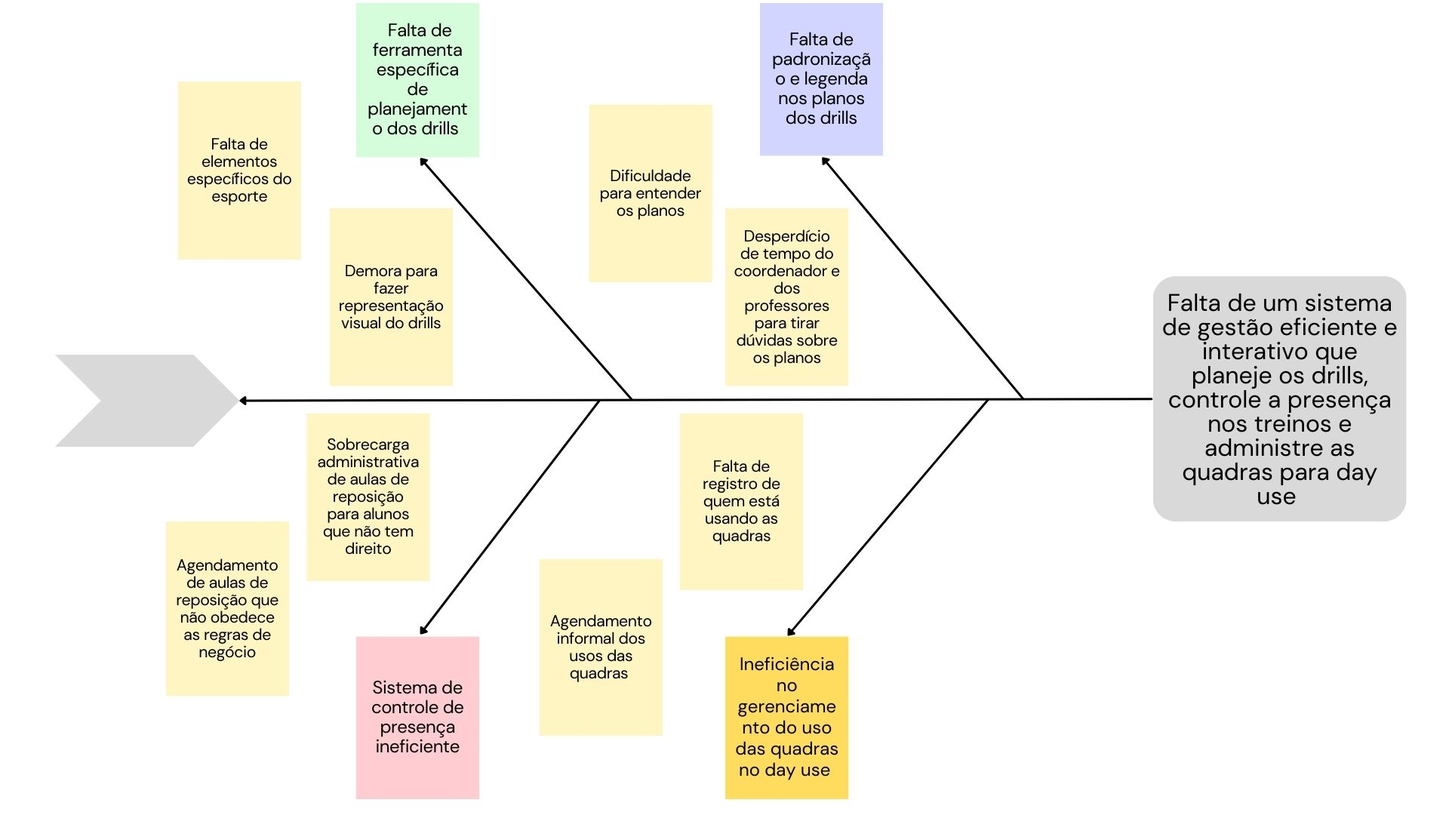
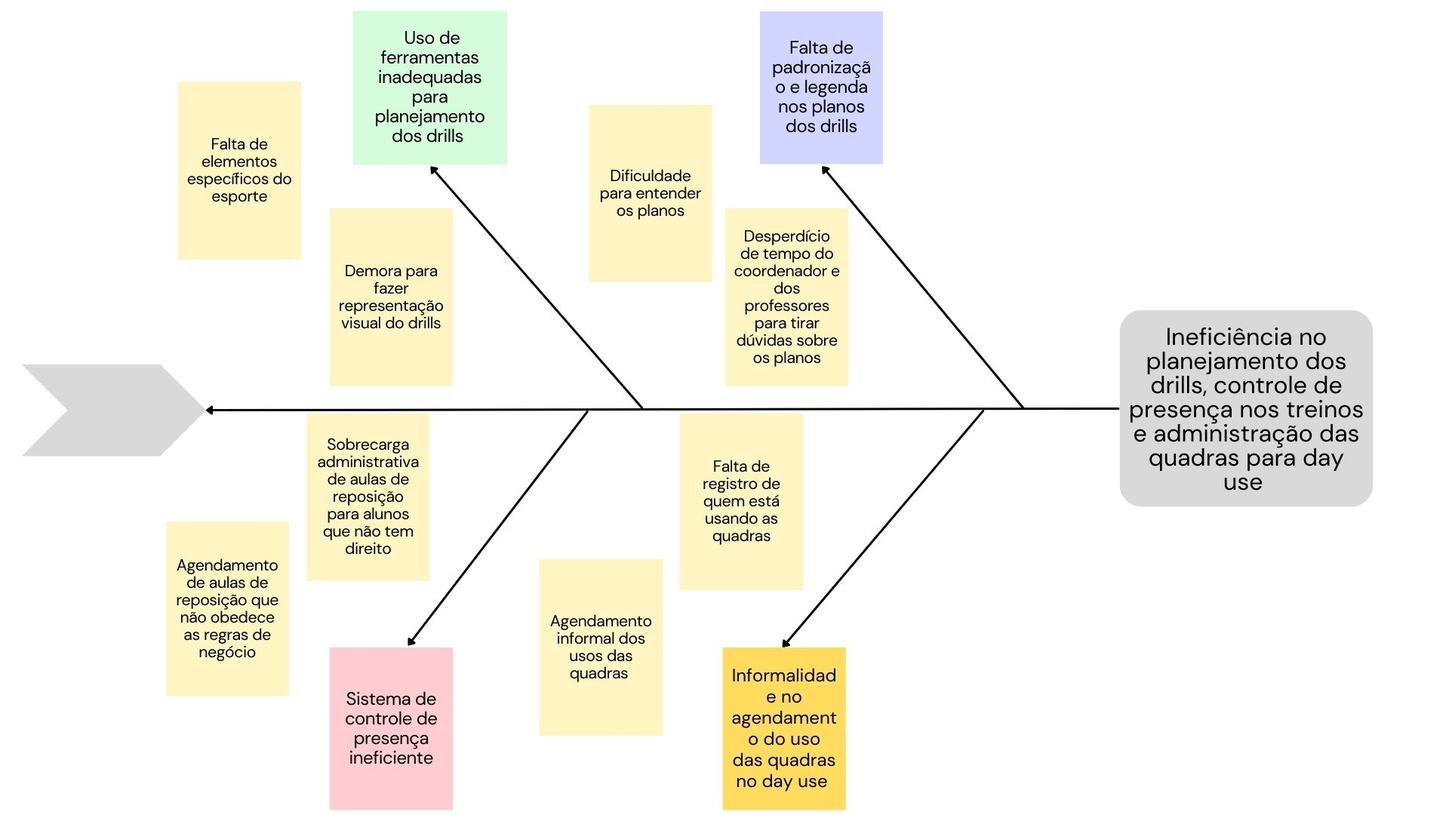
(#27, #28) Correção do problema na visão de produto, ajuste no cronograma em visão do projeto e refatoração do backlog Rebase das branchs local e remota

diff --git a/docs/backlog.md b/docs/backlog.md
@@ -1,6 +1,5 @@
 # Scale Agile Framework - SAFe
 
-
 <p align="justify"> &emsp;&emsp;
 O SAFe 6.0 é uma base de conhecimento de princípios, práticas e competências integradas comprovadas para alcançar agilidade empresarial usando Lean, Agile e DevOps. Ele é construído em torno da "Seven Core Competencies of Business Agility", que são fundamentais para alcançar e sustentar uma vantagem competitiva em uma era digital cada vez mais presente. O Modelo de requisitos utilizado pelo SAFe fornece uma estrutura de requisitos escalável que demonstra uma maneira de expressar comportamentos do sistema:</p>
 
@@ -9,17 +8,27 @@ O SAFe 6.0 é uma base de conhecimento de princípios, práticas e competências
 - **Features:** representa a funcionalidade da solução que fornece valor comercial, atende a uma necessidade das partes interessadas. Ela inclui uma hipótese de benefício e critérios de aceitação;
 - **Histórias:** descrições curtas de uma pequena parte da funcionalidade desejada, escritas da perspectiva do usuário. Elas são o principal artefato usado para definir o comportamentodosistema no Agile.
 
+<<<<<<< HEAD
 ## SAFe Backlog
+=======
+## SAFe Backlog BeachTennisCoordiMate
+>>>>>>> 6dd4ca3 ((#27, #28) Correção do problema na visão de produto, ajuste no cronograma em visão do projeto e refatoração do backlog)
 
+Confira no <a href="https://www.canva.com/design/DAFxzN0DjF4/hdM3-9VXQJwhiSZRybYmoQ/edit?utm_content=DAFxzN0DjF4&utm_campaign=designshare&utm_medium=link2&utm_source=sharebutton">link</a> uma versão mais intuitiva do nosso backlog.
 
 ### ***Tema Estratégico:*** 
 
+<<<<<<< HEAD
 <u>Planejamento e controle de aulas de Beach Tennis</u>
+=======
+<u>Gerenciamento de arena de Beach Tennis</u>
+>>>>>>> 6dd4ca3 ((#27, #28) Correção do problema na visão de produto, ajuste no cronograma em visão do projeto e refatoração do backlog)
 
 ### Épicos
 
 <!-- Explicar que o usuário são os coordenadores e professores -->
 
+<<<<<<< HEAD
 <center>
 
 | **Épico** |       **Descrição**       |
@@ -30,10 +39,17 @@ O SAFe 6.0 é uma base de conhecimento de princípios, práticas e competências
 |    E4     |     Gestão dos alunos     |
 
 </center>
+=======
+| **Épico** |      **Descrição**      |
+| :-------: | :---------------------: |
+|    E1     |    Gestão do usuário    |
+|    E2     | Gestão do uso do espaço |
+>>>>>>> 6dd4ca3 ((#27, #28) Correção do problema na visão de produto, ajuste no cronograma em visão do projeto e refatoração do backlog)
 
 
 ### Capacidade
 
+<<<<<<< HEAD
 <center>
 
 | **Épico** | **Capacidade** |      **Descrição**      |
@@ -44,6 +60,14 @@ O SAFe 6.0 é uma base de conhecimento de princípios, práticas e competências
 |    E3     |       C4       | Gerenciar plano de aula |
 |    E4     |       C5       | Gerenciamento de turmas |
 |    E4     |       C6       | Gerenciamento de aulas  |
+=======
+| **Épico** | **Capacidade** |   **Descrição**   |
+| :-------: | :------------: | :---------------: |
+|    E1     |       C1       | Administar conta  |
+|    E1     |       C2       | Gerenciar alunos  |
+|    E2     |       C3       | Gerenciar quadras |
+|    E2     |       C4       | Administrar aula  |
+>>>>>>> 6dd4ca3 ((#27, #28) Correção do problema na visão de produto, ajuste no cronograma em visão do projeto e refatoração do backlog)
 
 </center>
 
@@ -56,6 +80,7 @@ O SAFe 6.0 é uma base de conhecimento de princípios, práticas e competências
 |       C1       |         F1         | Gerenciamento de usuário-coordenador |
 |       C1       |         F2         |  Gerenciamento de usuário-professor  |
 |       C1       |         F3         |    Gerenciamento de usuário-aluno    |
+<<<<<<< HEAD
 |       C2       |         F4         |       Gerenciamento de quadra        |
 |       C2       |         F5         |            Agendar quadra            |
 |       C3       |         F6         |      Criar drills ilustrativos       |
@@ -78,11 +103,21 @@ O SAFe 6.0 é uma base de conhecimento de princípios, práticas e competências
 |       C6       |        F23         |  Realizar chamada de alunos da aula  |
 |       C6       |        F24         |    Notificar ausência em uma aula    |
 |       C6       |        F25         | Selecionar dias de reposição da aula |
+=======
+|       C2       |         F4         |        Administração de turma        |
+|       C2       |         F5         | Administração das aulas de reposição |
+|       C3       |         F6         |       Administração de quadra        |
+|       C3       |         F7         |        Agendamento de quadra         |
+|       C4       |         F8         |    Gerenciamento de plano de aula    |
+|       C4       |         F9         |        Gerenciamento de aula         |
+
+>>>>>>> 6dd4ca3 ((#27, #28) Correção do problema na visão de produto, ajuste no cronograma em visão do projeto e refatoração do backlog)
 
 </center>
 
 ### User Story
 
+<<<<<<< HEAD
 | **Funcionalidade** | **US** |                                                                                     **Descrição**                                                                                      |
 | :----------------: | :----: | :------------------------------------------------------------------------------------------------------------------------------------------------------------------------------------: |
 |         F1         |  US01  |                                               Eu, como usuário-coordenador, desejo criar minha conta com as minhas informações pessoais                                                |
@@ -134,16 +169,100 @@ O SAFe 6.0 é uma base de conhecimento de princípios, práticas e competências
 |        F23         |  US46  |                         Eu, como usuário-professor, desejo marcar a presença nos alunos que estão na aula para conseguir realizar a chamada dos alunos da aula                         |
 |        F24         |  US47  |                                                   Eu, como usuário-aluno, desejo notificar a ausência em uma aula que estou inserido                                                   |
 |        F25         |  US48  |                 Eu, como usuário-aluno, desejo receber uma notificação para remarcação de uma aula que estive ausente para selecionar os dias para a reposição da aula                 |
+=======
+| **Funcionalidade** | **US** |                                                                                         **Descrição**                                                                                         |
+| :----------------: | :----: | :-------------------------------------------------------------------------------------------------------------------------------------------------------------------------------------------: |
+|         F1         |  US01  |                                                        Eu, como usuário-coordenador, desejo criar minha conta para administrar a arena                                                        |
+|         F1         |  US02  |                                   Eu, como usuário-coordenador, desejo fazer login na minha conta para acessar as funcionalidades exclusivas de coordenador                                   |
+|         F2         |  US03  |                                       Eu, como usuário-coordenador, desejo criar a conta de um professor para poder administrar os professores da arena                                       |
+|         F2         |  US04  |                                        Eu, como usuário-professor, desejo fazer login na minha conta para me ajudar a realizar meu trabalho de ensino                                         |
+|         F2         |  US05  |                                          Eu, como usuário-coordenador, desejo desativar a conta de um professor para professores que saírem da arena                                          |
+|         F2         |  US06  |                       Eu, como usuário-coordenador, desejo visualizar uma lista com todas os professores cadastrados para saber a quantidade de professores registrados                       |
+|         F3         |  US07  |                                          Eu, como usuário-coordenador, desejo criar a conta de um aluno para conseguir gerenciar os alunos da arena                                           |
+|         F3         |  US08  |                           Eu, como usuário-aluno, desejo fazer login na minha conta para visualizar meu horário de aulas e me comunicar com a coordenação da arena                            |
+|         F3         |  US09  |                                              Eu, como usuário-coordenador, desejo desativar a conta de um aluno para alunos que saírem da arena                                               |
+|         F3         |  US10  |                       Eu, como usuário-coordenador, desejo visualizar uma lista com todas os alunos cadastrados para ter uma noção da quantidade de alunos cadastrados                        |
+|         F4         |  US11  |                                                    Eu, como usuário-coordenador, desejo criar uma turma para administrar as aulas da arena                                                    |
+|         F4         |  US12  |                                Eu, como usuário-coordenador, desejo atribuir alunos a turmas para que eu possa ligar um aluno com a turma encontrada para ele                                 |
+|         F4         |  US13  |                     Eu, como usuário-coordenador, desejo atribuir professores a turmas para que eu possa responsabilizar professores pelas turmas que eles devem dar aula                     |
+|         F4         |  US14  |                                         Eu, como usuário-coordenador, desejo visualizar uma turma da arena para poder ver as informações dessa turma                                          |
+|         F4         |  US15  |                                       Eu, como usuário-coordenador, desejo editar os dados de uma turma para realizar alterações em turmas em andamento                                       |
+|         F4         |  US16  |                                                   Eu, como usuário-coordenador, desejo excluir uma turma para caso a turma pare de existir                                                    |
+|         F4         |  US17  |                                     Eu, como usuário-coordenador, desejo remover um aluno de uma turma para caso o aluno troque de turma ou saia da arena                                     |
+|         F4         |  US18  |                        Eu, como usuário-coordenador, desejo remover um professor de uma turma para caso o professor pare de dar aula para a turma ou ou saia da arena                         |
+|         F4         |  US19  |                  Eu, como usuário-coordenador, desejo visualizar uma lista com todas as turma ativas da arena para ter uma noção da quantidade de turmas existentes na arena                  |
+|         F4         |  US20  |                                            Eu, como usuário-aluno, desejo visualizar as informações da minha turma para saber qual turma eu estou                                             |
+|         F5         |  US21  |                                   Eu, como usuário-aluno, desejo notificar minha falta em uma aula com antecedência para ter direito à reposição dessa aula                                   |
+|         F5         |  US22  |                        Eu, como usuário-aluno, desejo enviar meu atestado de saúde para o coordenador para justificar minha falta e ter direito à reposição dessa aula                        |
+|         F5         |  US23  |                     Eu, como usuário-aluno, desejo informar meus dias e horários disponíveis para que eu obtenha uma aula de reposição em um dia e horário satisfatórios                      |
+|         F5         |  US24  |                                                Eu, como usuário-aluno, desejo visualizar as minhas aulas de reposição para organizar meu tempo                                                |
+|         F5         |  US25  |                                Eu, como usuário-coordenador, desejo criar uma aula de reposição com o horário dessa aula para registrar a reposição de um aula                                |
+|         F5         |  US26  |                                           Eu, como usuário-coordenador, desejo visualizar uma aula de reposição para procurar por erros no registro                                           |
+|         F5         |  US27  |                                            Eu, como usuário-coordenador, desejo editar uma aula de reposição para caso tenha algum erro cadastrado                                            |
+|         F5         |  US28  |     Eu, como usuário-coordenador, desejo excluir uma aula de reposição para caso ela esteja errada por exemplo quando um aluno tiver sido atribuído a uma aula de reposição erroneamente      |
+|         F5         |  US29  |                              Eu, como usuário-coordenador, desejo atribuir alunos a aulas de reposição para que alunos com esse direito possam repor suas aulas                               |
+|         F5         |  US30  |                                   Eu, como usuário-coordenador, desejo baixar o atestado de um aluno para verificar se ele tem direito à reposição da aula                                    |
+|         F5         |  US31  |                           Eu, como usuário-coordenador, desejo atribuir professores a aulas de reposição para que eles reponham a aula para alunos com esse direito                           |
+|         F5         |  US32  |                           Eu, como usuário-coordenador, desejo atribuir alunos a aulas de reposição para os alunos que tem esse direito possam repor o aprendizado                            |
+|         F5         |  US33  |                   Eu, como usuário-coordenador, desejo visualizar uma lista com todas as aula de reposição para ter uma noção da quantidade de aulas de reposição agendadas                   |
+|         F6         |  US34  |                                     Eu, como usuário-coordenador, desejo criar uma quadra com uma identificação para gerenciar as quadras do meu negócio                                      |
+|         F6         |  US35  |                                                 Eu, como usuário-coordenador, desejo excluir uma quadra para caso essa quadra seja desativada                                                 |
+|         F6         |  US36  |                                                 Eu, como usuário-coordenador, desejo editar as informações de uma quadra para corrigir erros                                                  |
+|         F6         |  US37  |                                         Eu, como usuário-coordenador, desejo visualizar uma quadra, para procurar por erros nas informações da quadra                                         |
+|         F6         |  US38  |               Eu, como usuário-coordenador, desejo definir o status de uma quadra em determinado dia e horário, para notificar quando ela está livre ou quando ela será limpa.                |
+|         F6         |  US39  |           Eu, como usuário-coordenador, desejo visualizar os status de uma quadra em um mês na forma de agenda, para observar quando ela está livre, está tendo aula ou será limpa.           |
+|         F6         |  US40  |                      Eu, como usuário-coordenador, desejo editar o status de uma quadra em determinado dia e horário, para quando ocorrer mudanças no uso dessas quadras                      |
+|         F6         |  US41  |                                Eu, como usuário-coordenador, desejo visualizar uma lista com todas as quadras, para saber a quantidade de quadras cadastradas                                 |
+|         F7         |  US42  |                                   Eu, como usuário-coordenador, desejo atribuir uma quadra a uma turma, para definir o ambiente em que as aulas serão dadas                                   |
+|         F7         |  US43  |                                      Eu, como usuário-coordenador, desejo trocar a quadra em que a turma tem a aula, para caso a turma troque de quadra                                       |
+|         F7         |  US44  |                             Eu, como usuário-coordenador, desejo atribuir uma quadra a uma aula de reposição, para definir o ambiente em que as aulas serão dadas                             |
+|         F7         |  US45  |              Eu, como usuário-coordenador, desejo trocar a quadra em que a aula de reposição foi agendada, para o caso de ocorrer um imprevisto e a quadra não esteja disponível              |
+|         F7         |  US46  |            Eu, como usuário-aluno, desejo visualizar o status de uma quadra em determinado dia e horário em forma de agenda, para escolher um dia e horário, e agendar um day-use             |
+|         F7         |  US47  |                             Eu, como usuário-aluno, desejo agendar um day-use, para poder jogar Beach Tennis fora do horário de aula num horário de minha escolha                             |
+|         F7         |  US48  |                                           Eu, como visitante, desejo agendar um day-use, para poder jogar Beach Tennis num horário de minha escolha                                           |
+|         F7         |  US49  |                            Eu, como visitante, desejo visualizar o status de uma quadra na forma de agenda, para escolher um dia e horário para agendar um day-use                            |
+|         F8         |  US50  |                            Eu, como usuário-coordenador, desejo criar um plano de aula com título e os objetivos da aula, para poder administrar as aulas da arena                            |
+|         F8         |  US51  |                                           Eu, como usuário-coordenador, desejo poder visualizar um plano de aula, para procurar por possíveis erros                                           |
+|         F8         |  US52  |                                    Eu, como usuário-coordenador, desejo poder excluir um plano de aula, para apagar planos de aula que estiverem obsoletos                                    |
+|         F8         |  US53  |                          Eu, como usuário-coordenador, desejo poder editar um plano de aula, para alterar planos de aula que estiverem com alguma informação errada                           |
+|         F8         |  US54  |                Eu, como usuário-coordenador, desejo baixar os planos de aulas, para conseguir enviá-los aos responsáveis pela verificação dos planos, que são externos a arena                |
+|         F8         |  US55  |                     Eu, como usuário-coordenador, desejo adicionar um ou mais drills a um plano de aula para declarar os diferentes drills presentes em um plano de aula                      |
+|         F8         |  US56  |                                                  Eu, como usuário-coordenador, desejo criar um drill para representar e registrar um treino                                                   |
+|         F8         |  US57  |                                    Eu, como usuário-coordenador, desejo adicionar personagens ao drill para representar os alunos em um exercício/circuito                                    |
+|         F8         |  US58  |                               Eu, como usuário-coordenador, desejo adicionar equipamentos a um drill para representar os equipamentos de um exercício/circuito                                |
+|         F8         |  US59  |                                  Eu, como usuário-coordenador, desejo deletar equipamentos de um drill para deletar um equipamento adicionado  erroneamente                                   |
+|         F8         |  US60  |                                  Eu, como usuário-coordenador, desejo deletar personagens de um drill para deletar um personagem adicionado um  erroneamente                                  |
+|         F8         |  US61  |                                   Eu, como usuário-coordenador, desejo adicionar observações ao drill para detalhar mais um exercício/circuito de uma aula                                    |
+|         F8         |  US62  |                                 Eu, como usuário-coordenador, desejo deletar observações de um drill para deletar uma observação  adicionado uma erroneamente                                 |
+|         F8         |  US63  |                                                  Eu, como usuário-coordenador, desejo editar as observações de um drill para corrigir erros                                                   |
+|         F8         |  US64  |                                      Eu, como usuário-coordenador, desejo deletar um drill obsoleto para não deixar drills obsoletos em um plano de aula                                      |
+|         F8         |  US65  |                                                 Eu, como usuário-coordenador, desejo editar as informações de um drill para corrigir um erro                                                  |
+|         F8         |  US66  |                                 Eu, como usuário-coordenador, desejo atribuir planos de aula a professores para informar a eles sobre como as aulas devem ser                                 |
+|         F8         |  US67  |                            Eu, como usuário-coordenador, desejo visualizar uma lista com todos os planos de aula para ter uma noção da quantidade de planos feitos                            |
+|         F8         |  US68  |                   Eu, como usuário-coordenador, desejo visualizar uma lista com todos os drills de um plano de aula para ter uma noção da quantidade de drills nesse plano                    |
+|         F8         |  US69  |                        Eu, como usuário-professor, desejo visualizar os planos de aula que me forem atribuídos para ter uma orientação de como devem ser minhas aulas                         |
+|         F9         |  US70  |                        Eu, como usuário-professor, desejo visualizar o horário e quadra das minhas aulas no formato de agenda para que eu possa organizar meu trabalho                        |
+|         F9         |  US71  |                      Eu, como usuário-professor, desejo visualizar a lista de alunos das minhas aulas para que eu possa ver as informações das pessoas a quem darei aula                      |
+|         F9         |  US72  | Eu, como usuário-professor, desejo visualizar quais alunos notificaram que vão faltar a aula para que eu possa reorganizar meu tempo caso todos alunos de uma aula tenham avisado que não vão |
+|         F9         |  US73  |                                     Eu, como usuário-professor, desejo visualizar os planos de aula compartilhados comigo para saber como será minha aula                                     |
+>>>>>>> 6dd4ca3 ((#27, #28) Correção do problema na visão de produto, ajuste no cronograma em visão do projeto e refatoração do backlog)
 
 
 
 
 ## Histórico de Versões
 
+<<<<<<< HEAD
 <center>
 
 |  **Data**  | **Versão** |    **Descrição**     |          **Editores**          |
 | :--------: | :--------: | :------------------: | :----------------------------: |
 | 16/10/2023 |   `1.0`    | Criação do documento | João, Luciano, Pablo, Victório |
+=======
+|  **Data**  | **Versão** |                   **Descrição**                   |          **Editores**          |
+| :--------: | :--------: | :-----------------------------------------------: | :----------------------------: |
+| 16/10/2023 |   `1.0`    |               Criação do documento                | João, Luciano, Pablo, Victório |
+| 24/10/2023 |    0.2     | Refatoração do backlog e adição do link do Canvas |            Victório            |
+>>>>>>> 6dd4ca3 ((#27, #28) Correção do problema na visão de produto, ajuste no cronograma em visão do projeto e refatoração do backlog)
  
 <center>

diff --git a/docs/doc-visao/1.visao-produto.md b/docs/doc-visao/1.visao-produto.md
@@ -12,21 +12,22 @@
 | 14/9/2023 | 0.1 | Criação do documento | [Victório Lázaro](https://github.com/Victor-oss) |
 | 23/9/2023 | 0.2 | Corrigindo duplicidade no item "Objetivos do Produto"  | [Weslley Barros](https://github.com/weslley17w) |
 | 24/9/2023 | 0.3 | Inserção das tecnologias e do diagrama de Ishikawa na Visão Geral do Produto | [Victório Lázaro](https://github.com/Victor-oss) |
+| 24/10/2023 | 0.4 | Correção do Diagrama de Ishikawa e do Problema Principal | [Victório Lázaro](https://github.com/Victor-oss) |
 
 
 ## Problema
 
 *Os desafios discutidos estão relacionados ao contexto de uma empresa que oferece aulas de Beach Tennis e aluga suas quadras para uso externo quando estas não estão em uso para as aulas regulares (day use). Conforme relatado em entrevista com o cliente, foram identificados quatro problemas principais.*
 
-*O primeiro problema diz respeito ao planejamento dos drills (também conhecidos como treinos). Cada aula consiste em quatro tipos de drills: aquecimento, movimentação, jogo sem saque e jogo completo. Atualmente, o coordenador das aulas é responsável por elaborar manualmente os planos para cada drill de cada aula, adaptando-os de acordo com o nível dos alunos (iniciante, intermediário ou avançado). Essa tarefa envolve a criação de representações visuais da quadra, incluindo a disposição dos alunos, as trajetórias das bolas, a divisão das linhas da quadra e os equipamentos necessários, como o cano alterado, o arco e o cone. Este processo de criação de drills consome um tempo significativo devido à utilização de ferramentas de edição de texto, como o Word. Como resultado, a elaboração das aulas é demorada.*
+*O primeiro problema diz respeito ao uso de ferramentas inadequadas para planejamento dos drills (também conhecidos como treinos). Cada aula consiste em quatro tipos de drills: aquecimento, movimentação, jogo sem saque e jogo completo. Atualmente, o coordenador das aulas é responsável por elaborar manualmente os planos de aula com todos os drills, adaptando-os de acordo com o nível dos alunos (iniciante, intermediário ou avançado). Essa tarefa envolve a criação de representações visuais da quadra, incluindo a disposição dos alunos, as trajetórias das bolas, a divisão das linhas da quadra e os equipamentos necessários, como o cano alterado, o arco e o cone. Este processo de criação de drills consome um tempo significativo devido à utilização de ferramentas de edição de texto, como o Word. Como resultado, a elaboração das aulas é demorada e os elementos inseridos nos drills nem sempre representam os equipamentos das aulas de maneira intuitiva.*
 
 *Um problema adicional decorrente do planejamento dos drills é a falta de padronização e legenda, o que leva a confusões entre os professores. Esses professores frequentemente precisam entrar em contato com o coordenador para esclarecer dúvidas, o que pode resultar em interferências e atrasos nas aulas.*
 
-*O terceiro problema reportado diz respeito ao controle de presença dos alunos. A empresa utiliza um sistema de registro de faltas que automaticamente marca aulas de reposição para os alunos ausentes. No entanto, este sistema não leva em consideração as políticas da empresa, que exigem que as aulas de reposição sejam agendadas apenas se o aluno apresentar um atestado médico ou avisar com pelo menos vinte e quatro horas de antecedência. Isso tem resultado no registro de aulas de reposição para alunos que não atendem a esses requisitos, causando uma sobrecarga administrativa.*
+*O terceiro problema reportado diz respeito ao ineficiente sistema de controle de presença dos alunos usado atualmente pela empresa. A empresa utiliza um sistema de registro de faltas que automaticamente marca aulas de reposição para os alunos ausentes. No entanto, este sistema não leva em consideração as políticas da empresa, que exigem que as aulas de reposição sejam agendadas apenas se o aluno apresentar um atestado médico ou avisar com pelo menos vinte e quatro horas de antecedência. Isso tem resultado no registro de aulas de reposição para alunos que não atendem a esses requisitos, causando uma sobrecarga administrativa.*
 
-*Outro desafio ocorre no gerenciamento do fluxo de pessoas durante o "day-use" - o período em que as quadras não estão sendo usadas para aulas e podem ser utilizadas para jogos por alunos e público externo. Atualmente, não existe um sistema de gestão eficiente para controlar esse processo. Isso inclui o controle de presença dos alunos durante o "day-use" e a falta de um registro claro sobre quais alunos ou pessoas externas estão usando as quadras. Além disso, o agendamento para o uso das quadras é realizado por meio de conversas via chat ou atendimento presencial, o que pode ser ineficiente e suscetível a erros.*
+*Outro problema é a informalidade no gerenciamento do fluxo de pessoas durante o "day-use" - o período em que as quadras não estão sendo usadas para aulas e podem ser utilizadas para jogos por alunos e público externo. Atualmente, não existe um controle desse processo. Isso inclui o controle de presença dos alunos durante o "day-use" e a falta de um registro claro sobre quais alunos ou pessoas externas estão usando as quadras. Além disso, o agendamento para o uso das quadras é realizado por meio de conversas via chat ou atendimento presencial, o que pode ser ineficiente e suscetível a erros.*
 
-*Para se entender a causa principal, que causa todos os problemas citados, foi utilizada a técnica do Diagrama de Ishikawa (Espinha de Peixe). O problema se sustenta sobre a falta de um sistema de gestão eficiente e interativo que planeje os drills, controle a presença nos treinos e administre as quadras para day use. Através do Diagrama de Ishikawa, foram encontradas 4 causas raízes: Falta de ferramenta específica de planejamento dos drills, falta de padronização e legenda nos planos dos drills, sistema de controle de presença ineficiente e ineficiência no gerenciamento do uso das quadras no day use. O diagrama feito pela equipe pode ser visualizado na figura 1.*
+*Para se entender a causa principal, que causa todos os problemas citados, foi utilizada a técnica do Diagrama de Ishikawa (Espinha de Peixe). O problema se sustenta sobre a ineficiência no planejamento dos drills, controle de presença nos treinos e administração das quadras para day use. Através do Diagrama de Ishikawa, foram encontradas 4 causas raízes: Uso de ferramentas inadequadas para planejamento dos drills, Falta de padronização e legenda nos drills, Sistema de controle de presença ineficiente e Informalidade no agendamento do uso das quadras no day use. O diagrama feito pela equipe pode ser visualizado na figura 1.*
 
 <p style="display: flex; justify-content: center; font-size: 0.8em">Figura 1 - Diagrama de Ishikawa do Problema</p>
 ![Problema](../assets/ishikawa.jpg)

diff --git a/docs/doc-visao/2.visao-projeto.md b/docs/doc-visao/2.visao-projeto.md
@@ -11,7 +11,8 @@
 | --------- | ---------- | ---------------------------------------------- | -------------------------------------------------------------------------------------------------- |
 | 25/9/2023 | 0.1        | Inserção dos itens de Visão Geral do Projeto   | [Victório Lázaro](https://github.com/Victor-oss) e [Weslley Barros](https://github.com/weslley17w) |
 | 26/9/2023 | 0.2        | Realização das alterações pedidas no documento | [Victório Lázaro](https://github.com/Victor-oss)                                                   |
-| 26/9/2023 | 0.3        | Alteração na matriz de comunicação, adição da tabela de Gerenciamento de Riscos e adição de tópicos de Replanejamento | [João Barreto](https://github.com/JoaoBarreto03) e [Luciano de Freitas](https://github.com/luciano-freitas-melo)                                                   |
+| 26/9/2023 | 0.3        | Alteração na matriz de comunicação, adição da tabela de Gerenciamento de Riscos e adição de tópicos de Replanejamento | [João Barreto](https://github.com/JoaoBarreto03) e [Luciano de Freitas](https://github.com/luciano-freitas-melo) |
+| 24/10/2023 | 0.4        | Alteração no planejamento de fases do projeto | [Victório Lázaro](https://github.com/Victor-oss)   |
 
 
 ## Organização do Projeto
@@ -35,13 +36,13 @@
 <p style="display: flex; justify-content: center; font-size: 0.8em">Tabela 2 - Cronograma do Projeto</p>
 | Sprint   | Entrega                                                                                                                                                                    | Data de início | Data de fim |
 | -------- | -------------------------------------------------------------------------------------------------------------------------------------------------------------------------- | -------------- | ----------- |
-| Sprint 0 | Definição do produto e entrega da Visão do Produto e Projeto                                                                                                               | 15/09/2023     | 27/09/2023  |
-| Sprint 1 | Configuração do ambiente de desenvolvimento, nivelamento da equipe, definição do backlog, definição de user stories, definição de arquitetura, definição de MVP            | 30/09/2023     | 11/10/2023  |
-| Sprint 2 | Sistema de autenticação do sistema (Login e Registro), definição de Backlog SAFe e entrega da Missão 2 (26/10)                                                             | 14/10/2023     | 25/10/2023  |
-| Sprint 3 | Funcionalidade de criação dos drills                                                                                                                                       | 28/10/2023     | 08/11/2023  |
-| Sprint 4 | Funcionalidade de criação dos drills                                                                                                                                       | 11/11/2023     | 22/11/2023  |
-| Sprint 5 | Definição de Backlog com PBB, definição situações de comportamento para cada User Story com o BDD, Entrega Missão 3 (23/11), funcionalidade de gestão das quadras e testes | 25/11/2023     | 06/12/2023  |
-| Sprint 6 | Diagrama e especificação de casos de uso, Entrega Missão 4 (14/12)                                                                                                         | 09/12/2023     | 20/12/2023  |
+| Sprint 0 | Definição do produto e projeto  | 17/09/2023     | 30/09/2023  |
+| Sprint 1 | Definiçaõ de requisitos funcionais e não funcionais  | 01/10/2023     | 14/10/2023  |
+| Sprint 2 | Definição do backlog, definição de user stories,  validação do backlog e definição de MVP   | 15/10/2023     | 28/10/2023  |
+| Sprint 3 | US01, US02, US57, US58, US59, US60    | 29/10/2023     | 11/11/2023  |
+| Sprint 4 | US50, US51, US52, US53, US54, U55, U56, US57, US58, US59, US60   | 12/11/2023     | 25/11/2023  |
+| Sprint 5 | US34, US35, US36, US37, US61, US62, US63, US64, US65, US67, US68 | 26/11/2023     | 09/12/2023  |
+| Sprint 6 | US38, US39, US40, US41 | 10/12/2023     | 23/12/2023  |
 <p style="display: flex; justify-content: center; font-size: 0.8em">Fonte: Autores (2023)</p>
 
 ## Matriz de Comunicação
